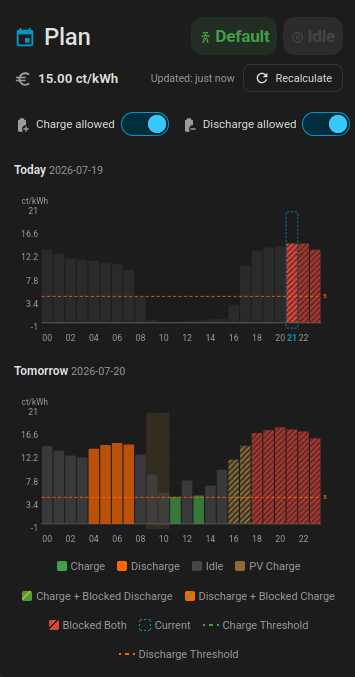
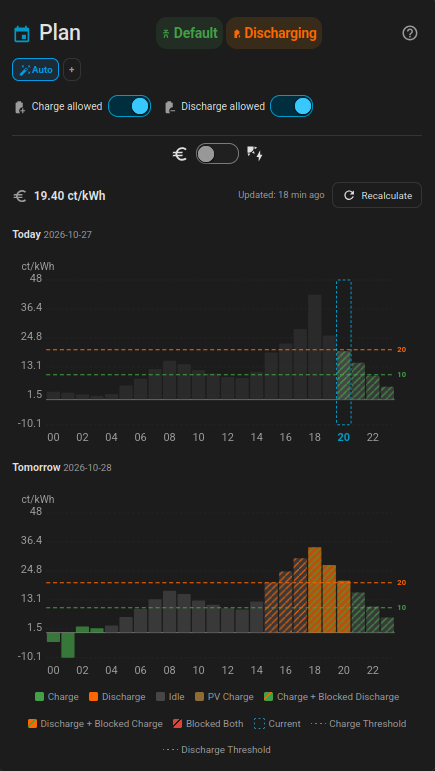
Group overview controls under settings and document the layout

diff --git a/frontend/src/victron-charge-controller-card.js b/frontend/src/victron-charge-controller-card.js
@@ -1393,11 +1393,12 @@ class VictronChargeControllerCard extends LitElement {
     return html`
       ${this._renderModeSection(true)}
       ${this._renderSection('Grid Setpoint', 'mdi:transmission-tower', this._renderSetpointCalculation())}
-      ${this._renderSection('Charge / Discharge', 'mdi:battery-charging', html`
+      ${this._renderSection('Settings', 'mdi:cog', html`
         ${this._renderTogglePair([
           { label: 'Charge Allowed', key: 'charge_allowed' },
           { label: 'Discharge Allowed', key: 'discharge_allowed' },
         ])}
+        ${this._renderGridConsumer()}
       `)}`;
   }
 

diff --git a/README.md b/README.md
@@ -201,9 +201,13 @@ existing plan's hourly price.
 | --- | --- | --- | --- |
 | `view` | string | `settings` | Card view: `settings`, `plan`, or `history`. |
 
-| Settings | Plan | History |
-| :---: | :---: | :---: |
-| ![Settings card screenshot](assets/screenshots/settings_card.png) | ![Plan card screenshot](assets/screenshots/plan_card.png) | ![History card screenshot](assets/screenshots/costs_card.png) |
+| Plan | History |
+| :---: | :---: |
+| ![Plan card screenshot](assets/screenshots/plan_card.png) | ![History card screenshot](assets/screenshots/costs_card.png) |
+
+| Settings | Overview |
+| :---: | :---: |
+| ![Settings card screenshot](assets/screenshots/settings_card.png) | ![Overview card screenshot](assets/screenshots/overview_card.png) |
 
 ## Grid Consumer
 
